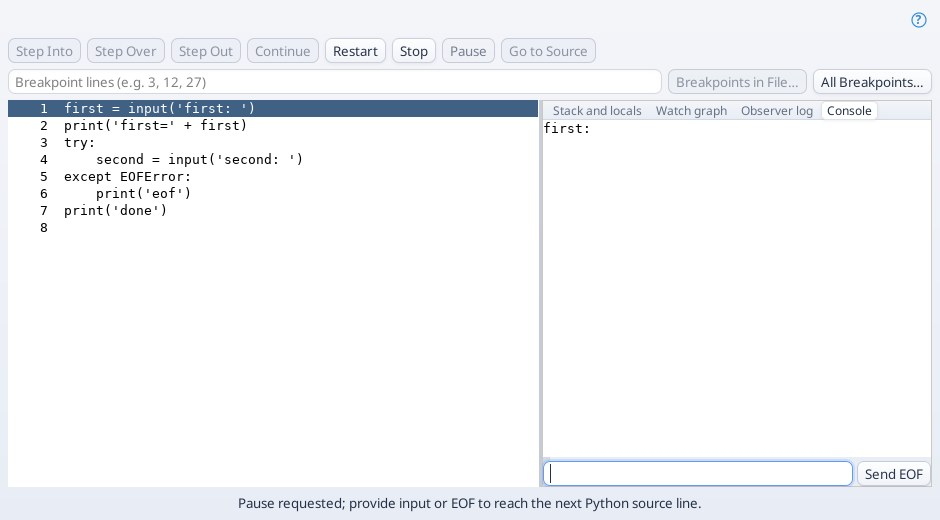
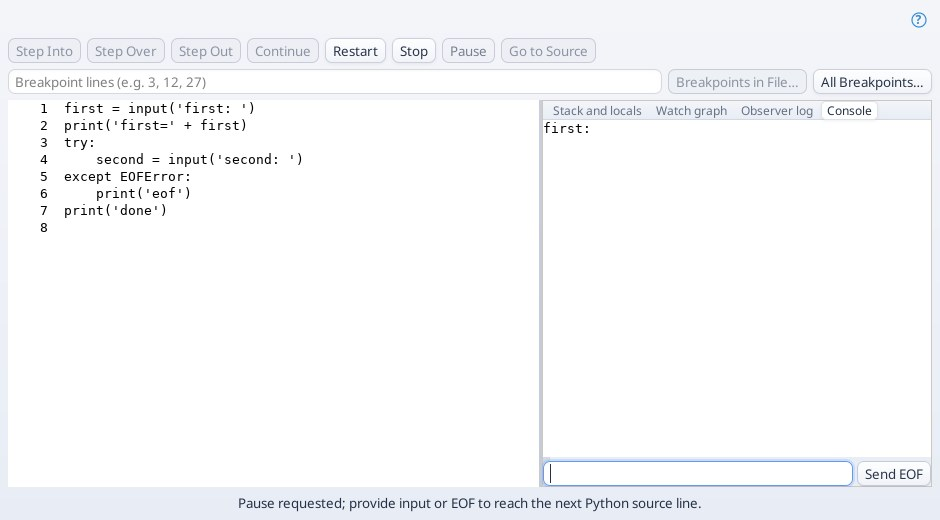
Document Python stdin reads with verified running-window captures

Changed region(s): [[0.0, 0.1846, 0.5862, 0.2462]]

diff --git a/insight/docs/ru/python-debugger.md b/insight/docs/ru/python-debugger.md
@@ -425,3 +425,7 @@ Python останавливается на следующей трассируе
 Консоль поддерживает `input()`, `sys.stdin.readline(n)`, `sys.stdin.read(n)` и чтение `sys.stdin.read()` до EOF. Размер считается в символах Unicode. Отправка Enter добавляет перевод строки; он тоже учитывается в размере. Остаток после частичного чтения сохраняется для следующего чтения. Пустая отправленная строка — перевод строки; окончание ввода задаётся кнопкой **Send EOF**.
 
 `read(n)` ждёт нужное число символов либо EOF, поэтому может потребоваться несколько отправок. `read()` собирает ввод до **Send EOF**. Например, после отправки `Я🙂x` вызов `read(3)` вернёт три символа, а следующий `readline()` получит оставшийся перевод строки без нового запроса.
+
+Настоящее окно Python с изолированной тестовой программой: после частичного чтения Unicode и остатка строки программа ожидает продолжение `read()` или **Send EOF**. Старой подсветки остановки нет.
+
+![Чтение текстового stdin до EOF](../media/script-debugger-read.jpg)

diff --git a/insight/docs/en/python-debugger.md b/insight/docs/en/python-debugger.md
@@ -413,3 +413,7 @@ Continue and stepping remove the previous stop highlight. A new line is highligh
 The console supports `input()`, `sys.stdin.readline(n)`, `sys.stdin.read(n)` and `sys.stdin.read()` through EOF. Sizes count Unicode characters. Submitting with Enter adds a newline, which also counts toward the size. Partial reads preserve the remainder for the next read. An empty submitted line is a newline; use **Send EOF** to end input.
 
 `read(n)` waits for the requested character count or EOF and may need several submissions. `read()` collects input until **Send EOF**. For example, after submitting `Я🙂x`, `read(3)` returns those three characters and the following `readline()` receives the remaining newline without another input request.
+
+Production Python window with an isolated test program: after a partial Unicode read and its buffered newline, the program waits for more `read()` input or **Send EOF**. The previous stop highlight is cleared.
+
+![Reading text stdin through EOF](../media/script-debugger-read.jpg)

diff --git a/insight/docs/python-debugger.md b/insight/docs/python-debugger.md
@@ -418,3 +418,7 @@ Continue and stepping remove the previous stop highlight. A new line is highligh
 The console supports `input()`, `sys.stdin.readline(n)`, `sys.stdin.read(n)` and `sys.stdin.read()` through EOF. Sizes count Unicode characters. Submitting with Enter adds a newline, which also counts toward the size. Partial reads preserve the remainder for the next read. An empty submitted line is a newline; use **Send EOF** to end input.
 
 `read(n)` waits for the requested character count or EOF and may need several submissions. `read()` collects input until **Send EOF**. For example, after submitting `Я🙂x`, `read(3)` returns those three characters and the following `readline()` receives the remaining newline without another input request.
+
+Production Python window with an isolated test program: after a partial Unicode read and its buffered newline, the program waits for more `read()` input or **Send EOF**. The previous stop highlight is cleared.
+
+![Reading text stdin through EOF](media/script-debugger-read.jpg)
